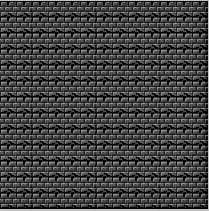
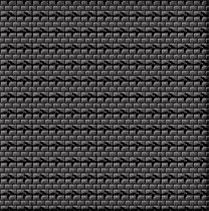
rtcd
yrtc

diff --git a/Site/css/style.css b/Site/css/style.css
@@ -3,6 +3,10 @@ html, body{
 	height: 100%;
 	margin: 0;
 	padding:0;
+	background-image: url(../img/mur.png);
+	background-attachment:fixed;
+	background-repeat:repeat;
+	background-position:x-0 y-100;
 }
 
 
@@ -36,9 +40,3 @@ html, body{
 	background-color: rgba(64,64,64,0.8);
 }
 
-.mur{
-	width:100%;
-	height:100%;
-	background-position:fixed;
-	background-repeat: repeat;
-}

diff --git a/Site/master.html b/Site/master.html
@@ -22,8 +22,5 @@
 				<li>De nouveaux crafts</li>
 				<li>Et de la cooperation de 2 à 4 joueurs</li>
 			</article>
-			<section class="section">
-				<img src="img/mur.png" class="mur" />
-			</section>
 	</body>
 </html>
